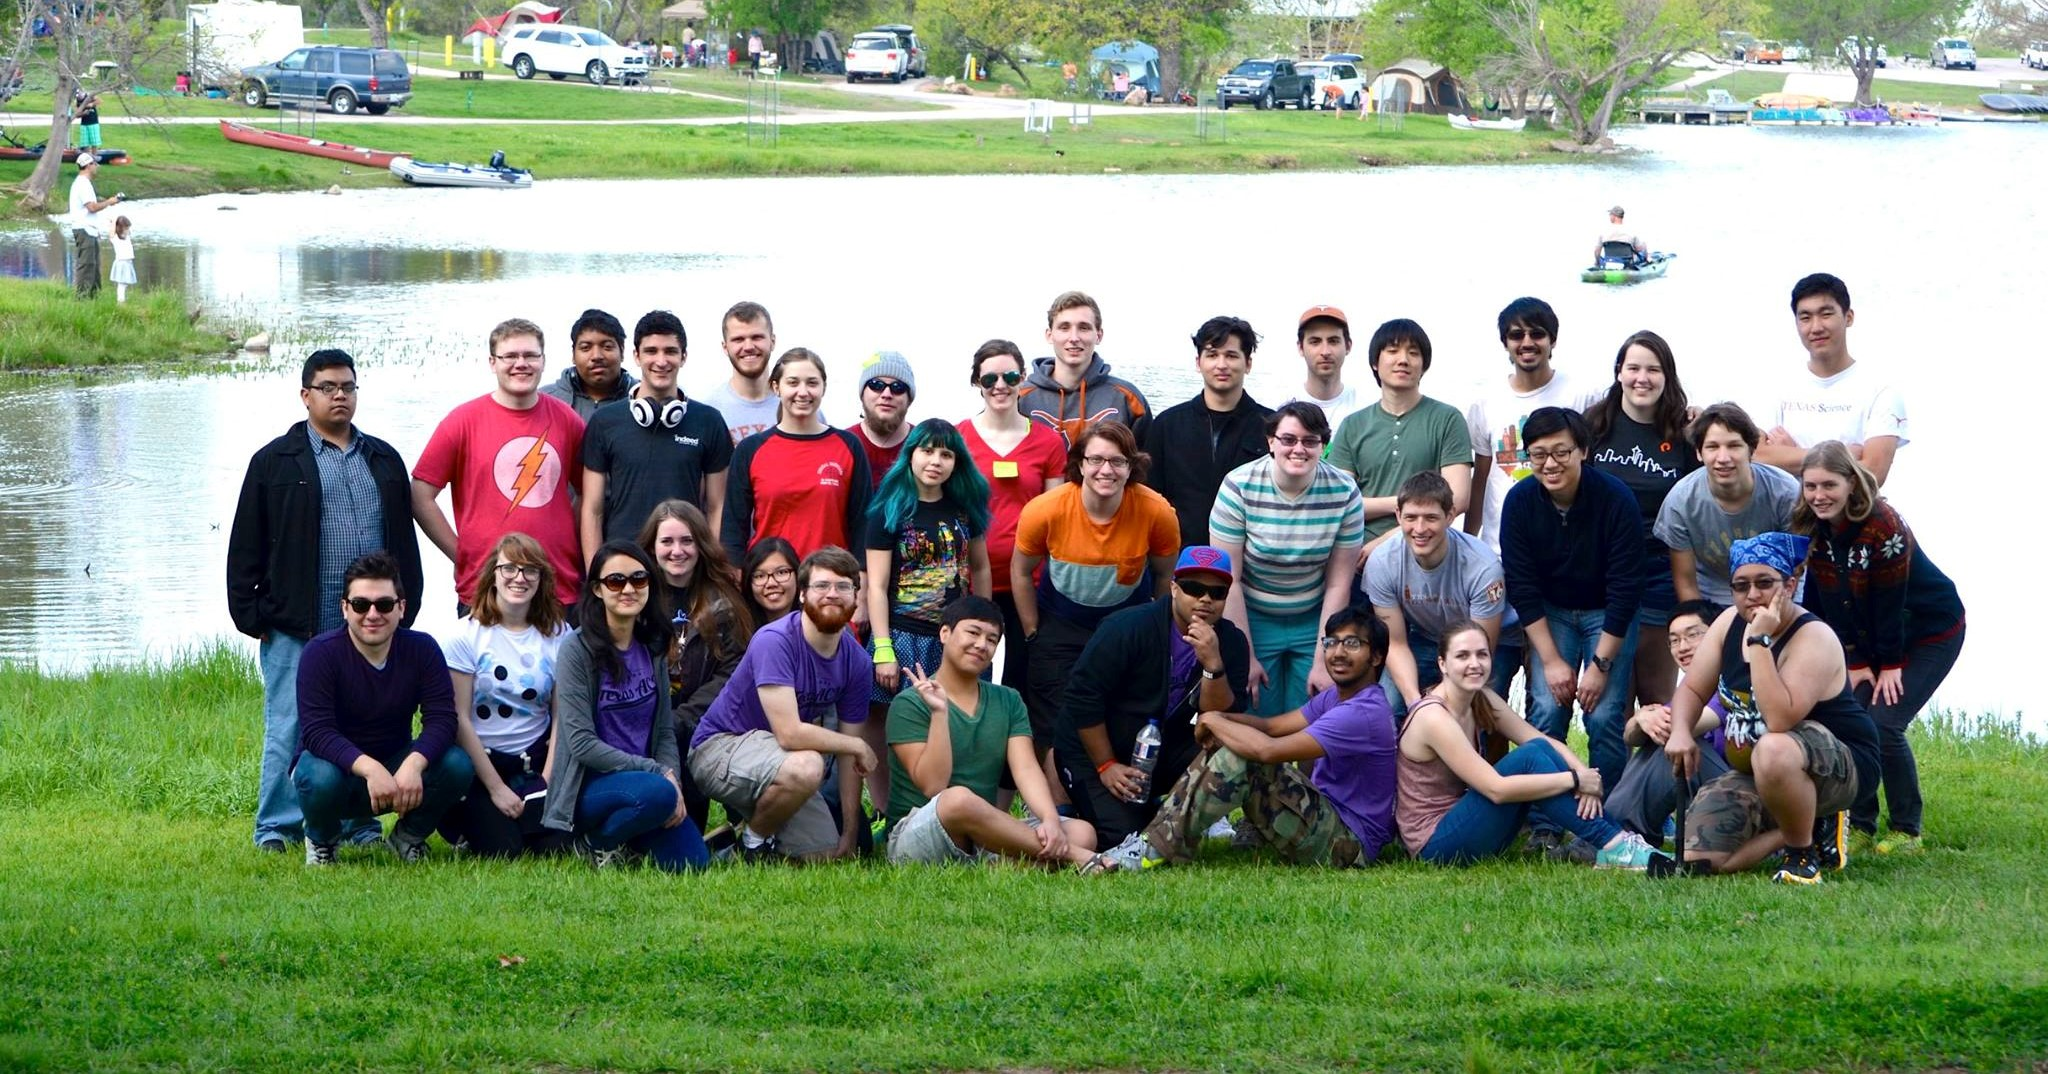
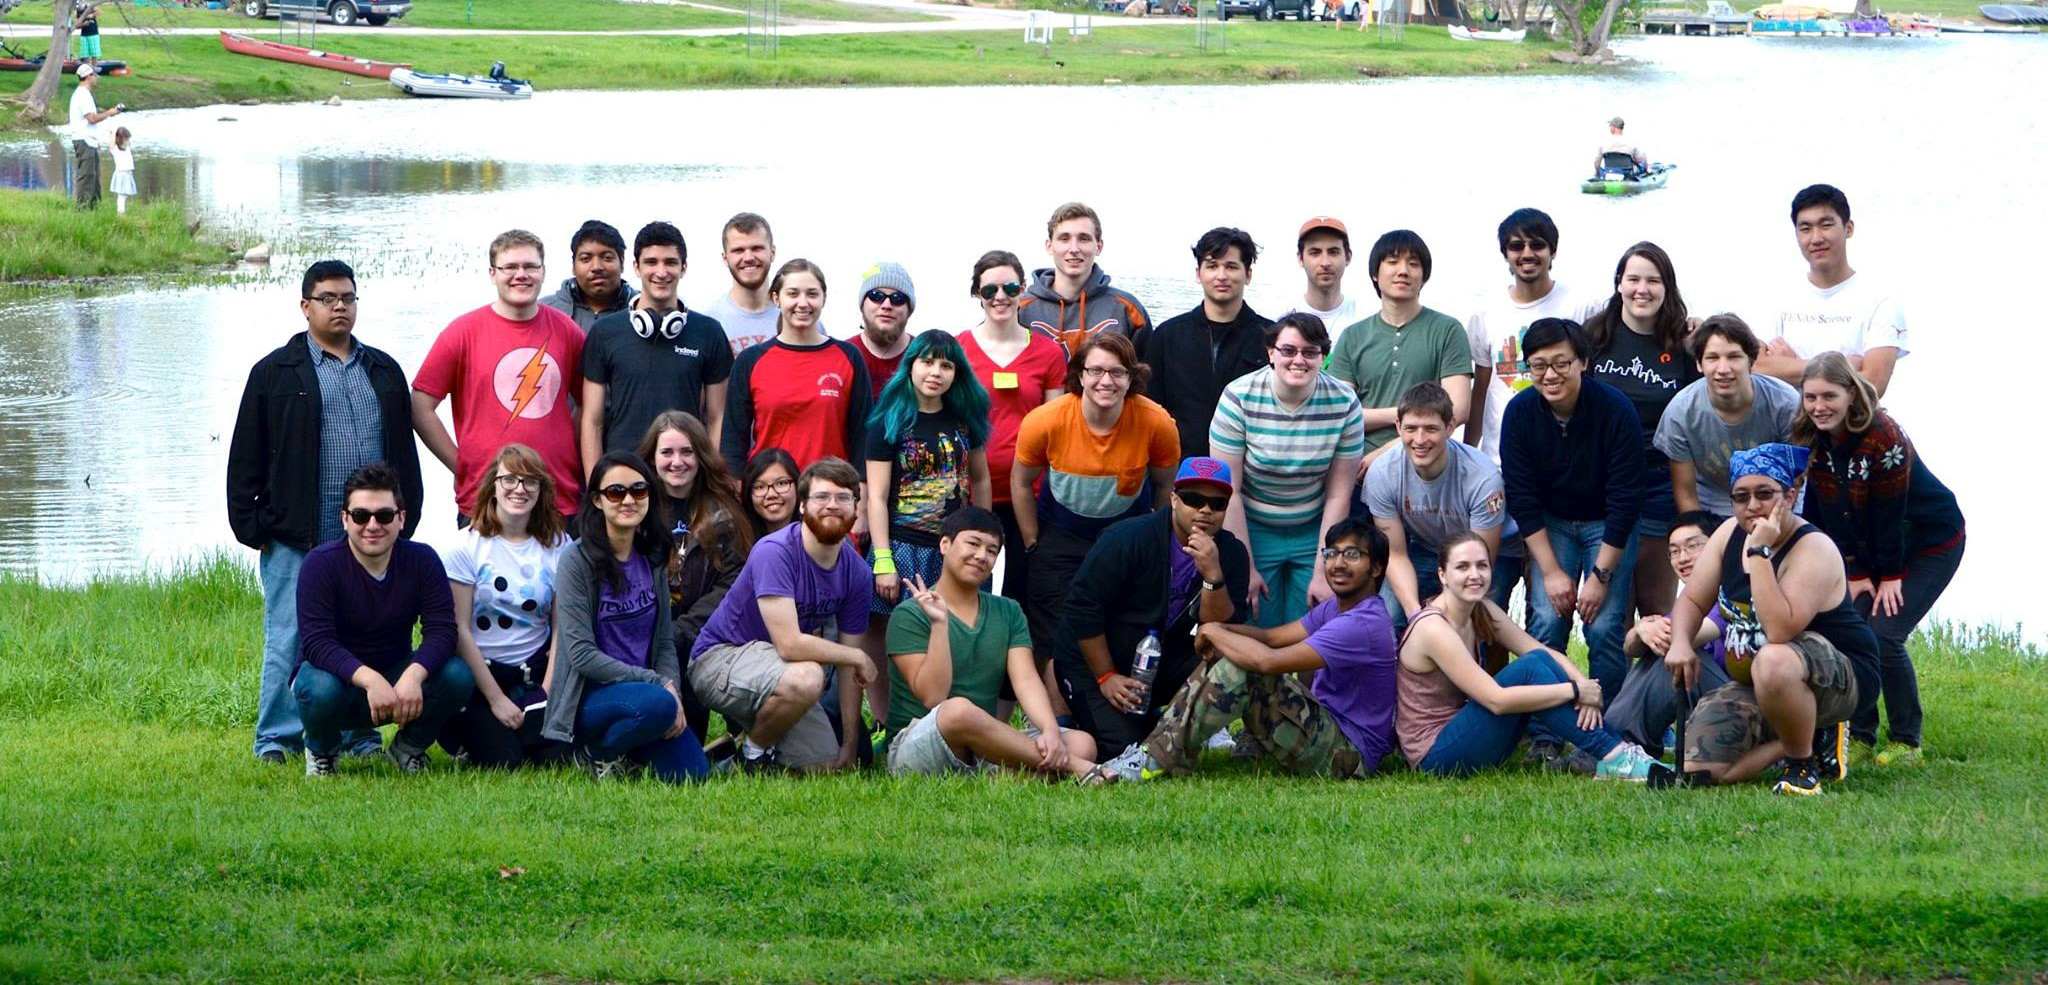
Slideshow Update
New Banner, 2016 Retreat Modified

diff --git a/index.html b/index.html
@@ -42,7 +42,7 @@
 			<div class="slideshow-container">
 				<div class="mySlides fade">
 					<div class="numbertext">1 / 5</div>
-					<img src="https://scontent-dft4-2.xx.fbcdn.net/v/t1.0-9/11990611_413993178805725_7505577438075421752_n.png?oh=78938ec837e3a4b3279a5877cafd8f58&oe=5A5A0F1B" class="slideshow-images"/>
+					<img src="graphics/slideshow/banner.png" class="slideshow-images"/>
 				</div>
 				<div class="mySlides fade">
 					<div class="numbertext">2 / 5</div>

diff --git a/slideshow.css b/slideshow.css
@@ -20,7 +20,7 @@ display:none
 .mySlides {
 	width:100%;
 	/*height:450px;*/
-	height:35vw;	
+	height:38vw;	
 	overflow:hidden;
 	min-width:850px;
 	
